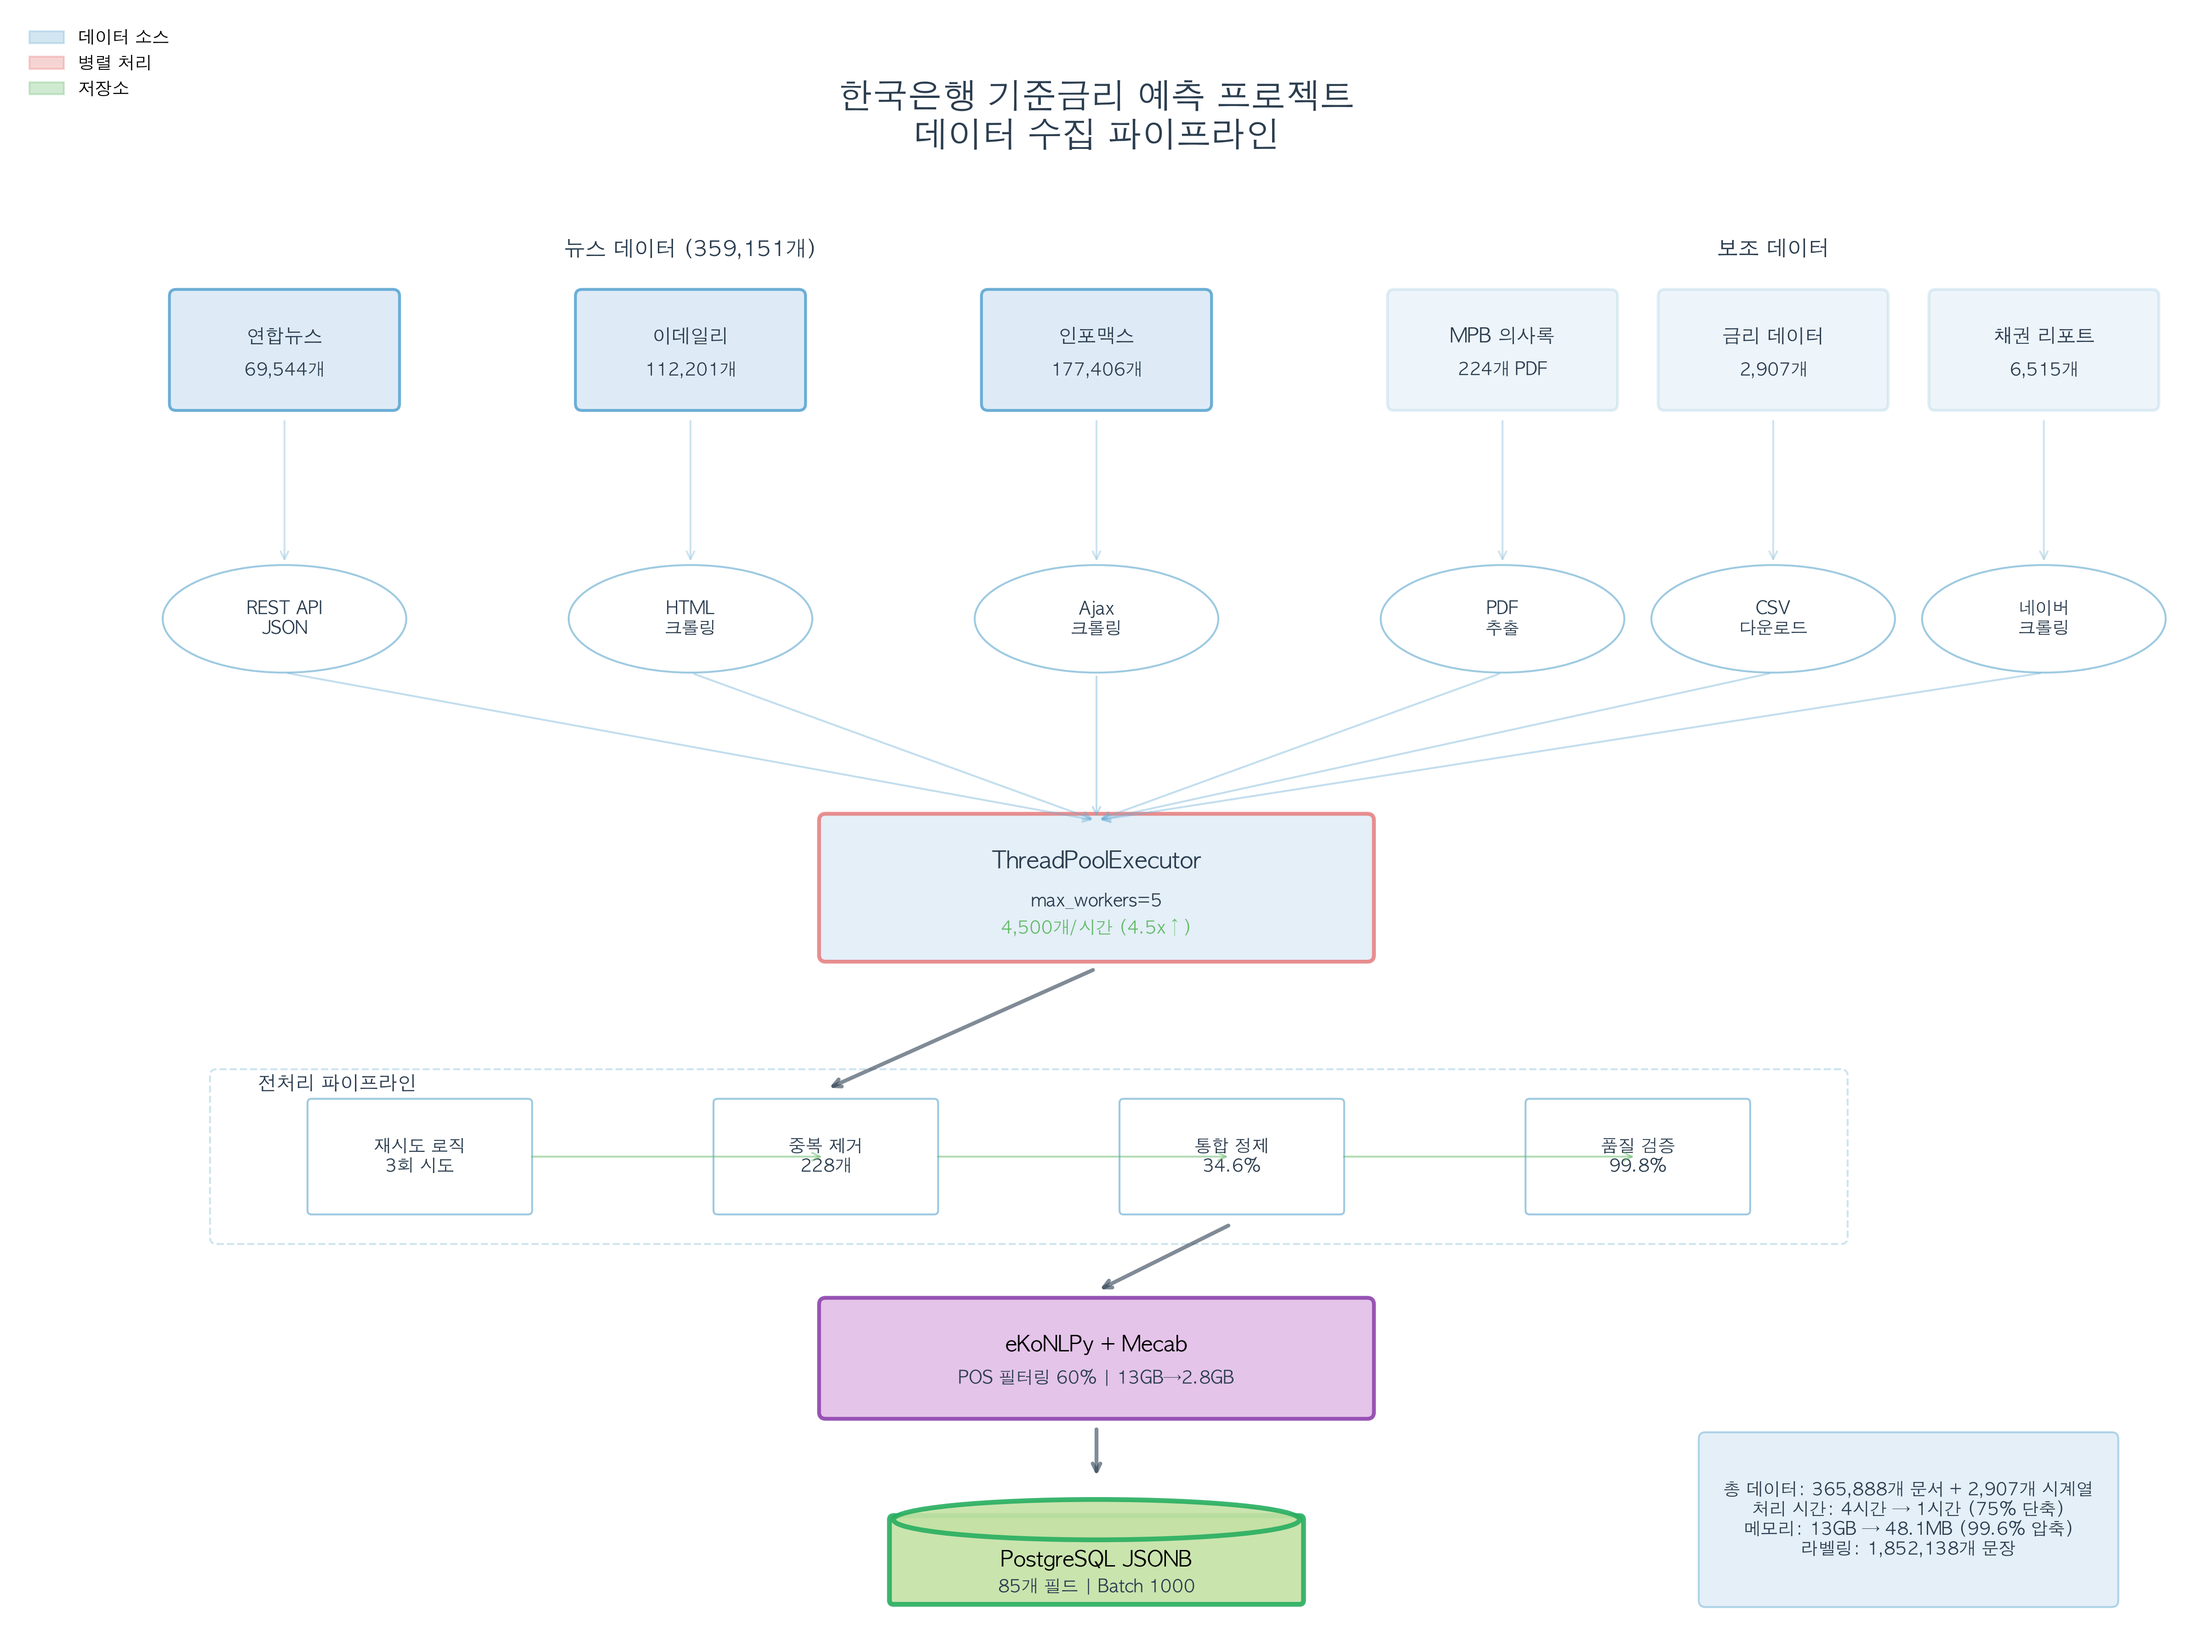
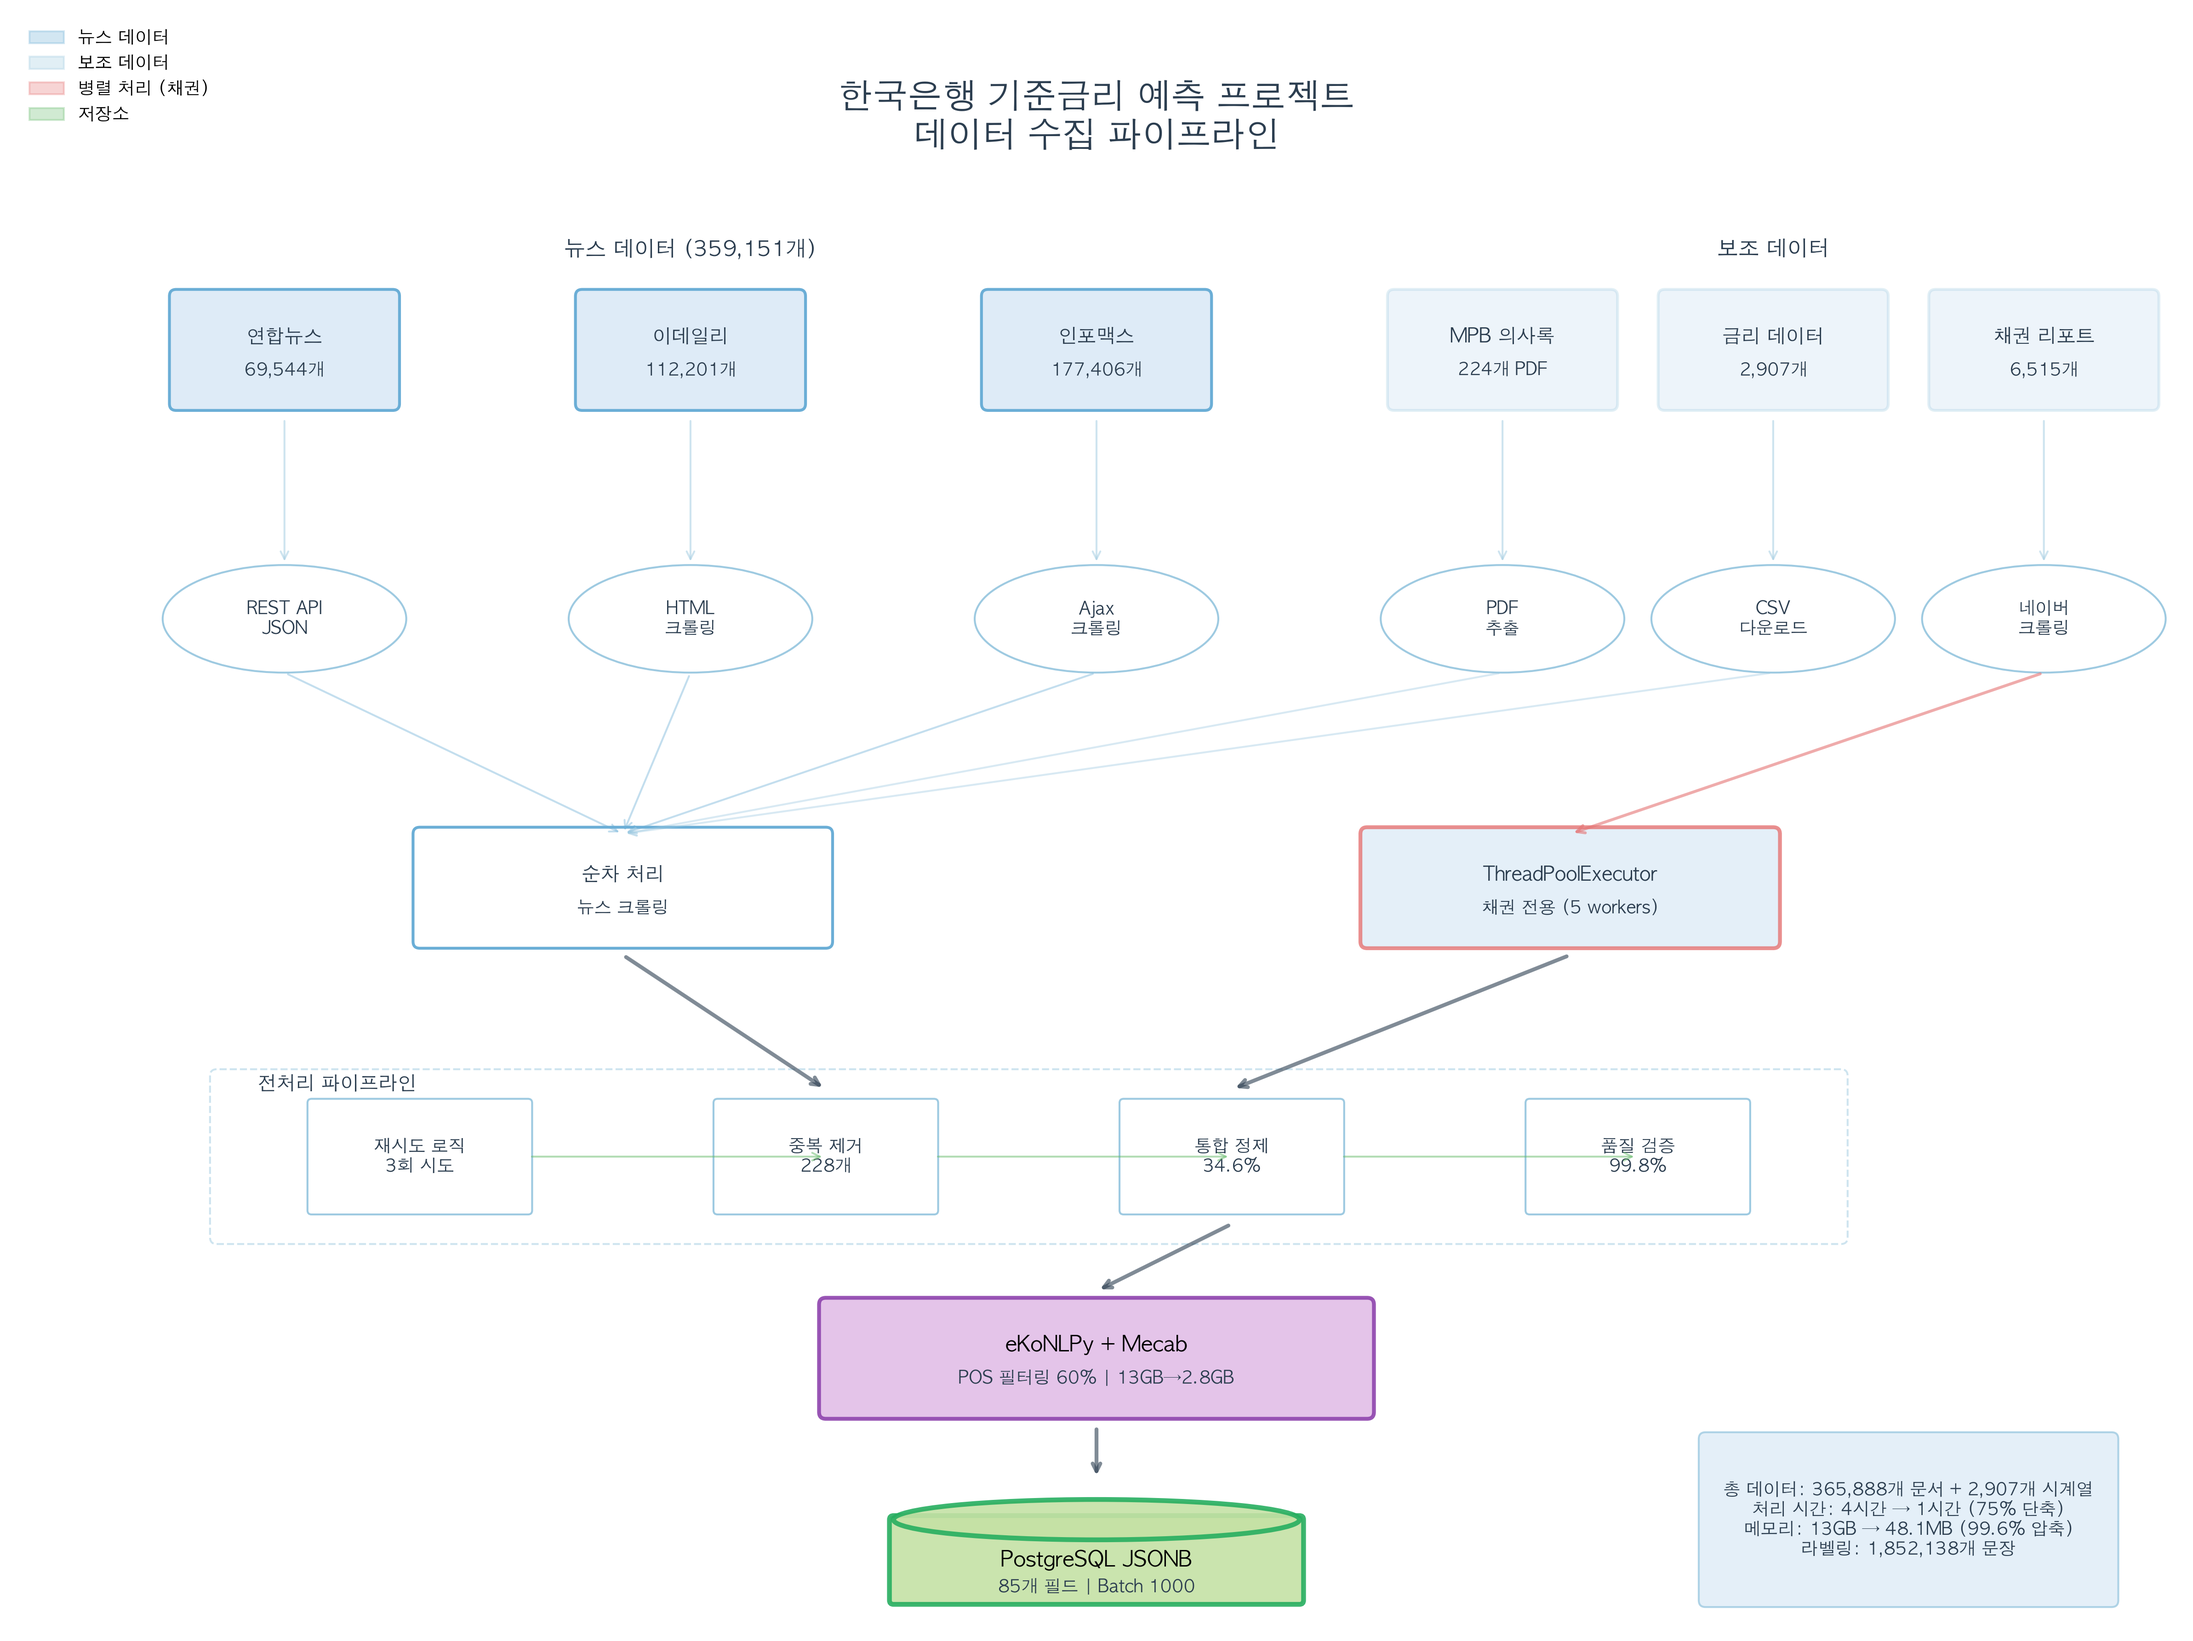
Fix data pipeline architecture to reflect actual implementation
- Corrected ThreadPoolExecutor usage: only for bond crawler (5 workers)
- News crawlers use sequential processing for stability
- Updated PORTFOLIO.md to accurately describe processing methods
- Restructured pipeline diagram to show separate paths:
  - News data → Sequential processing → Preprocessing
  - Bond reports → ThreadPoolExecutor → Preprocessing
- Fixed misleading performance claims and worker counts

Changed region(s): [[0.2811, 0.4664, 0.8122, 0.5908], [0.0, 0.0311, 0.0937, 0.0933]]

diff --git a/visualizations/pipeline_diagram_matplotlib.py b/visualizations/pipeline_diagram_matplotlib.py
@@ -107,20 +107,30 @@ def create_pipeline_diagram():
         ax.add_patch(ellipse)
         ax.text(x, y_method, text, fontsize=9, ha='center', va='center', color=colors['text'])
 
-    # ===== 3. 병렬 처리 레이어 =====
+    # ===== 3. 처리 방식 레이어 =====
     y_pool = 5.5
 
-    # ThreadPoolExecutor 박스 (강조)
-    pool_box = FancyBboxPatch((6, y_pool-0.5), 4, 1,
+    # 순차 처리 (뉴스)
+    seq_box = FancyBboxPatch((3, y_pool-0.4), 3, 0.8,
+                             boxstyle='round,pad=0.05',
+                             facecolor='white',
+                             edgecolor=colors['primary'], linewidth=1.5)
+    ax.add_patch(seq_box)
+    ax.text(4.5, y_pool+0.1, '순차 처리', fontsize=10, fontweight='bold',
+            ha='center', va='center', color=colors['text'])
+    ax.text(4.5, y_pool-0.15, '뉴스 크롤링', fontsize=9,
+            ha='center', va='center', color=colors['text'])
+
+    # ThreadPoolExecutor (채권 전용)
+    pool_box = FancyBboxPatch((10, y_pool-0.4), 3, 0.8,
                               boxstyle='round,pad=0.05',
                               facecolor=colors['light'], alpha=0.8,
                               edgecolor=colors['accent2'], linewidth=2)
     ax.add_patch(pool_box)
-    ax.text(8, y_pool+0.2, 'ThreadPoolExecutor', fontsize=12, fontweight='bold',
+    ax.text(11.5, y_pool+0.1, 'ThreadPoolExecutor', fontsize=10, fontweight='bold',
             ha='center', va='center', color=colors['text'])
-    ax.text(8, y_pool-0.1, 'max_workers=5', fontsize=9, ha='center', va='center', color=colors['text'])
-    ax.text(8, y_pool-0.3, '4,500개/시간 (4.5x↑)', fontsize=9, ha='center',
-            va='center', color=colors['accent1'], fontweight='bold')
+    ax.text(11.5, y_pool-0.15, '채권 전용 (5 workers)', fontsize=9,
+            ha='center', va='center', color=colors['text'])
 
     # ===== 4. 전처리 파이프라인 레이어 =====
     y_process = 3.5
@@ -194,14 +204,27 @@ def create_pipeline_diagram():
     ax.annotate('', xy=(13, y_method+0.4), xytext=(13, y_source-0.5), arrowprops=arrow_props)
     ax.annotate('', xy=(15, y_method+0.4), xytext=(15, y_source-0.5), arrowprops=arrow_props)
 
-    # 수집방법 → ThreadPool (집중)
-    for x in [2, 5, 8, 11, 13, 15]:
-        ax.annotate('', xy=(8, y_pool+0.5), xytext=(x, y_method-0.4),
+    # 뉴스 수집방법 → 순차 처리
+    for x in [2, 5, 8]:
+        ax.annotate('', xy=(4.5, y_pool+0.4), xytext=(x, y_method-0.4),
                    arrowprops=dict(arrowstyle='->', lw=1, color=colors['primary'], alpha=0.4))
 
-    # ThreadPool → 전처리 → 토큰화 → DB (메인 플로우)
+    # 보조 데이터 → 순차 처리 (MPB, 금리)
+    for x in [11, 13]:
+        ax.annotate('', xy=(4.5, y_pool+0.4), xytext=(x, y_method-0.4),
+                   arrowprops=dict(arrowstyle='->', lw=1, color=colors['border'], alpha=0.4))
+
+    # 채권 → ThreadPool
+    ax.annotate('', xy=(11.5, y_pool+0.4), xytext=(15, y_method-0.4),
+               arrowprops=dict(arrowstyle='->', lw=1.5, color=colors['accent2'], alpha=0.6))
+
+    # 처리 방식 → 전처리 (메인 플로우)
     main_arrow = dict(arrowstyle='->', lw=2, color=colors['text'], alpha=0.6)
-    ax.annotate('', xy=(6, y_process+0.5), xytext=(8, y_pool-0.6), arrowprops=main_arrow)
+    # 순차 처리 → 전처리
+    ax.annotate('', xy=(6, y_process+0.5), xytext=(4.5, y_pool-0.5), arrowprops=main_arrow)
+    # ThreadPool → 전처리
+    ax.annotate('', xy=(9, y_process+0.5), xytext=(11.5, y_pool-0.5), arrowprops=main_arrow)
+    # 전처리 → 토큰화 → DB
     ax.annotate('', xy=(8, y_token+0.5), xytext=(9, y_process-0.5), arrowprops=main_arrow)
     ax.annotate('', xy=(8, y_db+0.6), xytext=(8, y_token-0.5), arrowprops=main_arrow)
 
@@ -226,8 +249,9 @@ def create_pipeline_diagram():
 
     # 범례
     legend_elements = [
-        mpatches.Patch(color=colors['primary'], alpha=0.3, label='데이터 소스'),
-        mpatches.Patch(color=colors['accent2'], alpha=0.3, label='병렬 처리'),
+        mpatches.Patch(color=colors['primary'], alpha=0.3, label='뉴스 데이터'),
+        mpatches.Patch(color=colors['border'], alpha=0.3, label='보조 데이터'),
+        mpatches.Patch(color=colors['accent2'], alpha=0.3, label='병렬 처리 (채권)'),
         mpatches.Patch(color=colors['accent1'], alpha=0.3, label='저장소')
     ]
     ax.legend(handles=legend_elements, loc='upper left', fontsize=9,

diff --git a/PORTFOLIO.md b/PORTFOLIO.md
@@ -20,7 +20,8 @@
       - Scrapy 기반 UnifiedNewsCrawler 설계 및 구현
       - Edaily preview 버그 수정으로 완전 본문 수집 달성 (300자→1,287자)
       - InfoMax 3,000자 제한 해제, 연합뉴스 API 통합
-      - ThreadPoolExecutor(max_workers=5) 병렬 처리로 4.5배 속도 향상
+      - 채권 크롤러: ThreadPoolExecutor(max_workers=5) 페이지 병렬 처리
+      - 뉴스 크롤러: 순차 처리로 안정적 수집 (연합, 이데일리, 인포맥스)
       - 3회 재시도 로직 구현 (exponential backoff: 2s, 4s, 8s)
 
     · **데이터 전처리**: prepare_paper_dataset.py 구현
@@ -83,7 +84,8 @@
     · 품질 관리:
       - 중복 제거: 228개 (0.06%)
       - 실패 재시도: 3회, exponential backoff
-      - 병렬 처리: ThreadPoolExecutor(5 workers), 4.5배 속도↑
+      - 채권 크롤링: ThreadPoolExecutor(5 workers) 페이지 병렬
+      - 뉴스 크롤링: 소스별 순차 처리 (안정적 수집)
     · PostgreSQL JSONB 저장 (85개 필드, 배치 1000)
 
     **② 정제 및 토큰화 (unified_cleansing.py + eKoNLPy)**
@@ -103,7 +105,9 @@
     **③ N-gram 생성 (53.4M→1.58M)**
     · 1-5gram 추출: 53,371,110개 초기 생성
     · 빈도 필터링(>5): 1,577,569개 (97% 노이즈 제거)
-    · Counter 기반 메모리 최적화 → 48.1MB1. 데이터 수집: Scrapy 2.11, BeautifulSoup4, ThreadPoolExecutor
+    · Counter 기반 메모리 최적화 → 48.1MB
+
+1. 데이터 수집: Scrapy 2.11, BeautifulSoup4, requests
 
 2. 데이터 전처리: pandas, regex, eKoNLPy 0.97+, PostgreSQL
 
@@ -164,13 +168,18 @@
       - 2016년 이후: 공식 API (`ars.yna.co.kr/api/v2`, JSON 응답)
       - 2014-2015년: 네이버 뉴스 아카이브 크롤링
 
-- **병렬 처리 아키텍처 및 성능**
+- **데이터 수집 아키텍처**
     ```python
-    # 실제 구현된 병렬 처리 코드
-    from concurrent.futures import ThreadPoolExecutor
+    # 뉴스 크롤러: 순차 처리 (연합, 이데일리, 인포맥스)
+    def crawl_all(self, sources=['yonhap', 'edaily', 'infomax']):
+        for source in sources:
+            articles = self.crawl_{source}(start_date, end_date)
 
-    executor = ThreadPoolExecutor(max_workers=5)
-    # 단일 스레드: 1,000개/시간 → 5 workers: 4,500개/시간 (4.5배↑)
+    # 채권 크롤러: ThreadPoolExecutor로 페이지 병렬 처리
+    from concurrent.futures import ThreadPoolExecutor
+    with ThreadPoolExecutor(max_workers=5) as executor:
+        futures = {executor.submit(self.process_page, page): page
+                   for page in range(1, total_pages + 1)}
 
     # 재시도 로직 (exponential backoff)
     for retry in range(max_retries):  # max_retries=3
@@ -192,11 +201,11 @@
 
 - **시간대별 수집 전략**
 
-    | 시간대 | 수집 비중 | 특징 | 병렬 워커 |
+    | 시간대 | 수집 비중 | 특징 | 처리 방식 |
     |--------|----------|------|-----------|
-    | 09-11시 | 40% | 주요 뉴스 발행 | 5 workers |
-    | 14-16시 | 25% | 오후 업데이트 | 3 workers |
-    | 23-06시 | 35% | 야간 재수집 | 5 workers |
+    | 09-11시 | 40% | 주요 뉴스 발행 | 순차 처리 |
+    | 14-16시 | 25% | 오후 업데이트 | 순차 처리 |
+    | 23-06시 | 35% | 야간 재수집 | 순차 처리 |
 
 - **수집 성과 및 데이터 분포**
 
@@ -512,7 +521,8 @@
 
     **1. 데이터 수집**
     · 라이브러리: Scrapy 2.11, BeautifulSoup4, Requests
-    · 병렬처리: ThreadPoolExecutor (max_workers=5)
+    · 채권 크롤링: ThreadPoolExecutor (max_workers=5)
+    · 뉴스 크롤링: 소스별 순차 처리
     · API: 연합뉴스 API v2 (2016년 이후)
 
     **2. 데이터 전처리**
@@ -522,7 +532,7 @@
 
     **3. 특징 추출**
     · N-gram 생성: ast.literal_eval, Counter
-    · 병렬화: multiprocessing.Pool (8 cores)
+    · 토큰화 병렬화: multiprocessing.Pool (8 cores)
     · 메모리 관리: chunk 처리 (100,000개 단위)
 
     **4. 모델링**
